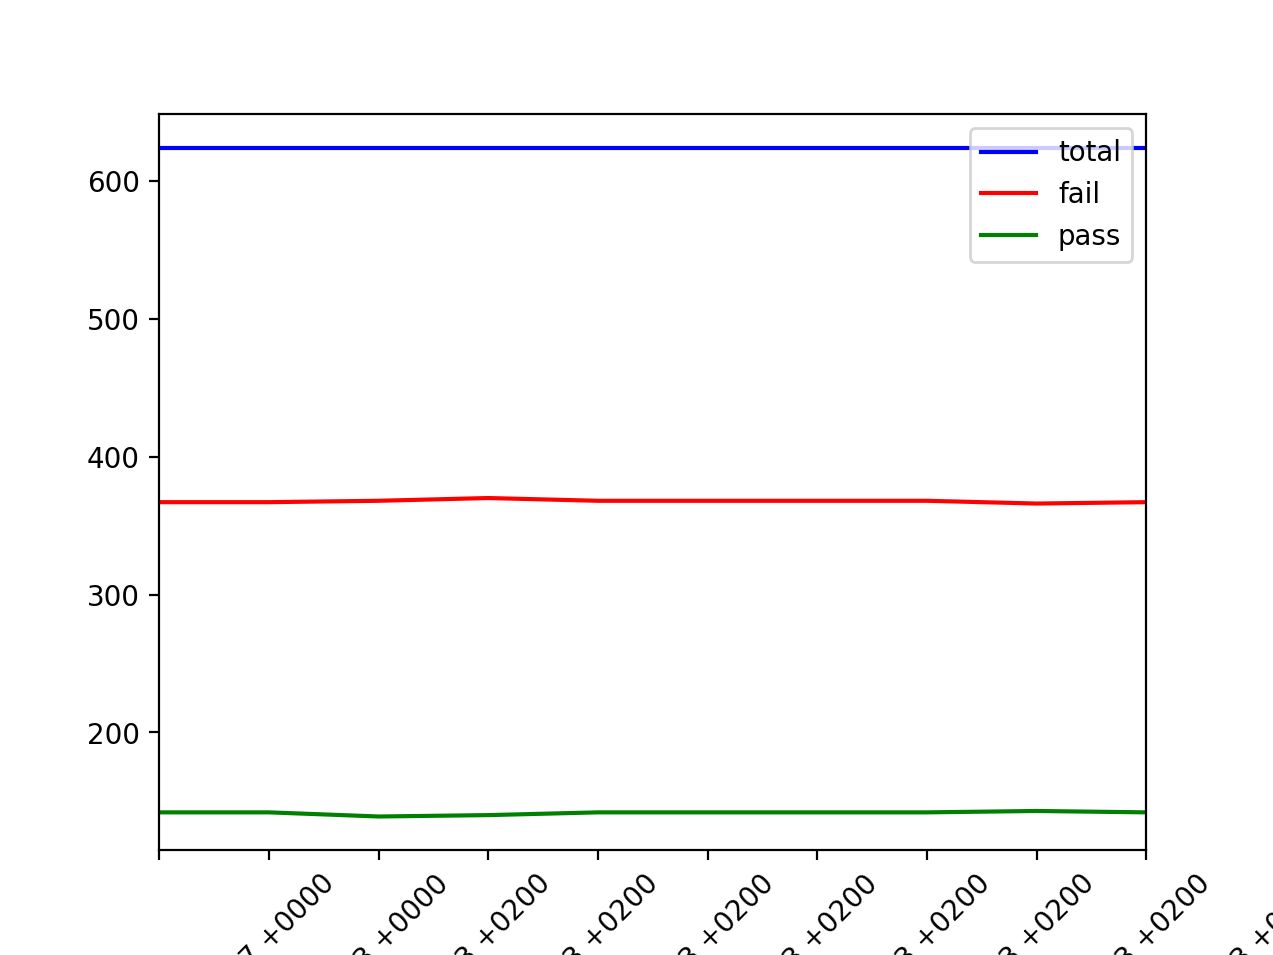
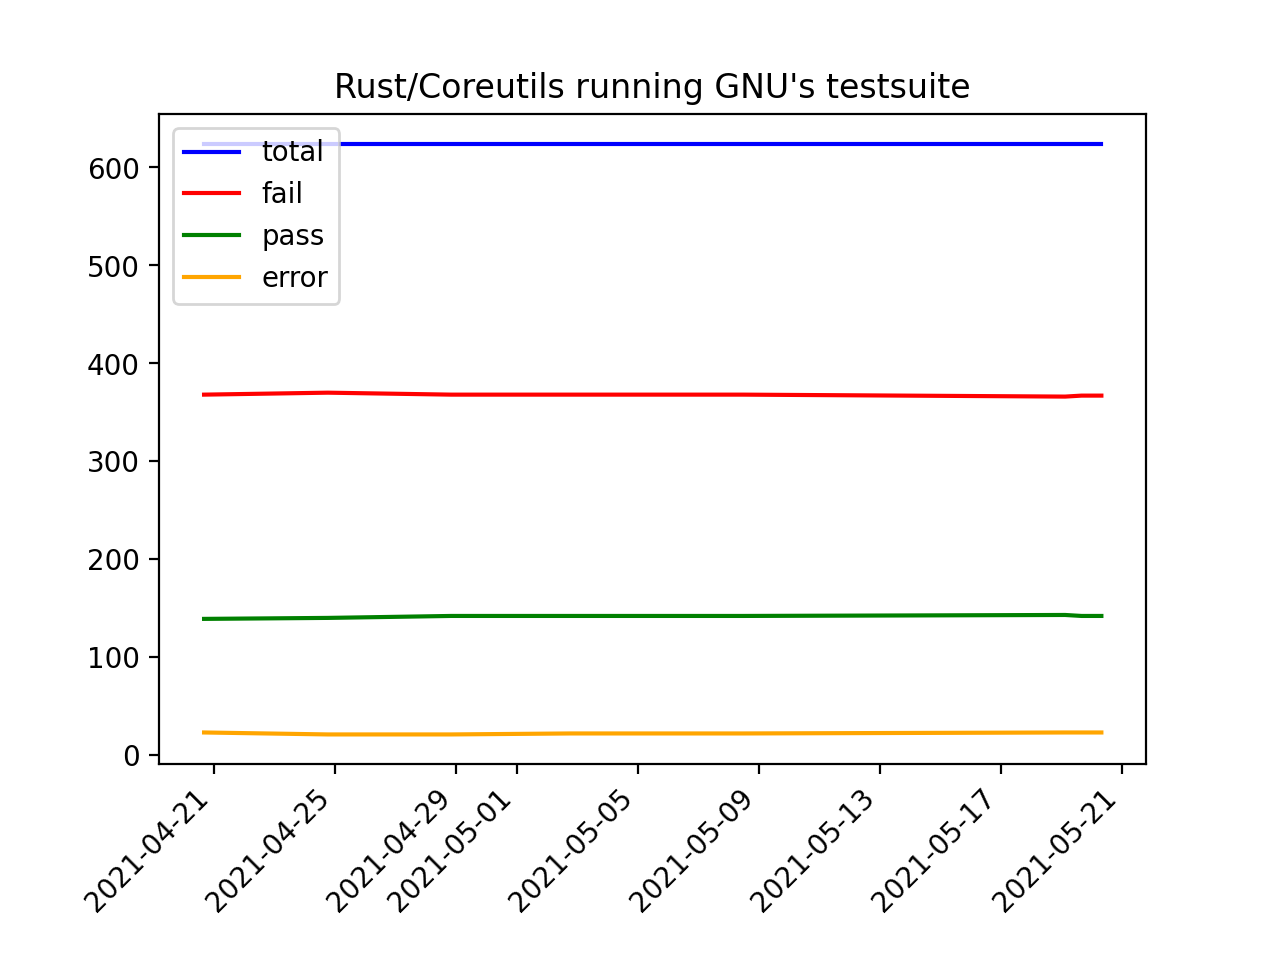
Improve the graphic

diff --git a/graph.py b/graph.py
@@ -1,16 +1,32 @@
+from datetime import datetime
+from email.utils import parsedate
+
+import sys
+import time
+
 import matplotlib.pyplot as plt
 import pandas as pd
-import sys
 
-d = pd.read_json(sys.argv[1])
+d = pd.read_json(sys.argv[1], orient="index")
 df = pd.DataFrame(d)
-df = df.transpose()
+
+df.columns.names = ["date"]
+
+as_list = df.index.tolist()
+for i in as_list:
+    idx = as_list.index(i)
+    t = parsedate(i)
+    as_list[idx] = datetime.fromtimestamp(time.mktime(t))
+
+df.index = as_list
+
 print(df)
 
 ax = plt.gca()
 df.plot(y="total", color="blue", ax=ax)
 df.plot(y="fail", color="red", ax=ax)
 df.plot(y="pass", color="green", ax=ax)
-
+df.plot(y="error", color="orange", ax=ax)
+plt.title("Rust/Coreutils running GNU's testsuite")
 plt.xticks(rotation=45)
 plt.savefig("gnu-results.png", dpi=199)
